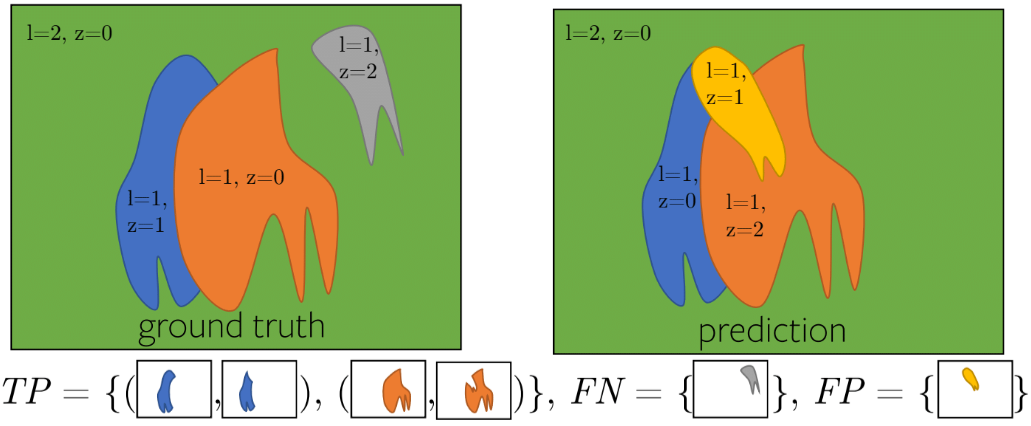
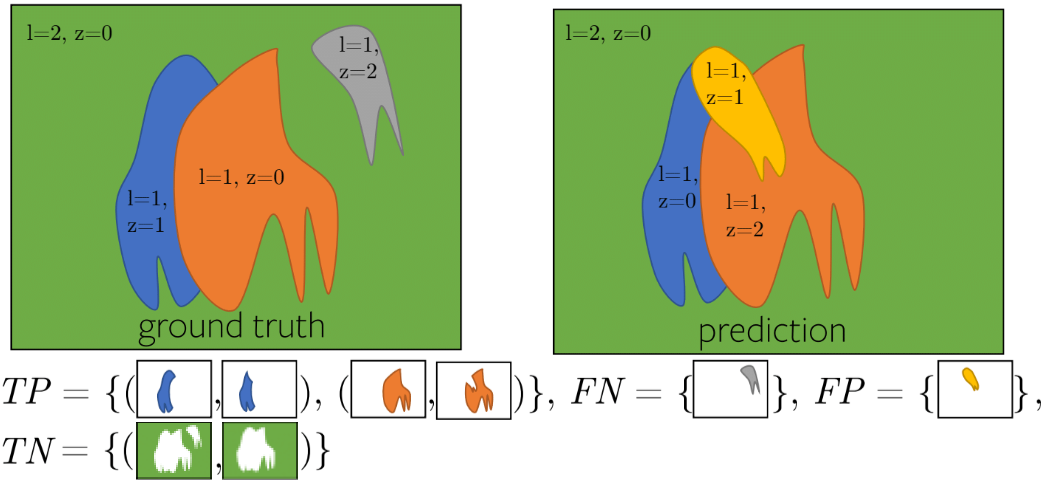
feat: adding more metrics

Changed region(s): [[0.0, 0.0, 1.0, 1.0], [0.1242, 0.4577, 0.1552, 0.4883]]

diff --git a/latex/segmentacao.tex b/latex/segmentacao.tex
@@ -43,28 +43,77 @@ A arquitetura Mask R-CNN é derivado do Fast R-CNN — aprimoramento do R-CNN ap
 Um problema encontrado na segmentação semântica é que objetos de mesma classe não são separados como na segmentação de instância, logo surgiu uma ideia para criar uma solução usando as duas técnicas. Esse conceito surgiu do trabalho \space\citeonline{kirillov2019panoptic} e consiste na definição geral da ideia, uma métrica — que será explicada posteriormente — unificada para classificar os resultados do modelo além de fazer a distinção entre coisas — ou stuff — que não são contáveis, como o céu e os objetos — ou things — que são contáveis como carros, pessoas, etc.
 Os principais conjunto de dados para tarefa panóptica são COCO-Panoptic, Cityscapes, Mapillary Vistas, ADE20K, e Indian Driving Dataset. Cada conjunto de dados possui diversas classes para o modelo aprender \space\cite{v7labs2022panoptic}.
 
-\subsubsection*{Métricas, técnicas e resultados}
+\subsubsubsection*{Métricas e técnicas}
 
 No ramo de segmentação existem diversas métricas que podem ser usadas
 
 \subsubsubsection*{Classificação de conjuntos}
 
-A classificação de conjuntos é uma técnica para criar relações entre a imagem de predição e a imagem do conjunto de dados. Ela se divide em três classificações sendo elas: Positivos Verdadeiros — ou True Positives(TP) — sendo o requisito ter uma intersecção significativa entre classes iguais, \emph{i.e.}, IoU > 0.5, Falso Positivos — ou False Positives(FP) — quando um objeto não é correspondido na imagem de predição e por fim Falso Negativos — False Negatives(FN) — quando um objeto não é correspondido na imagem do conjunto de dados. Pode-se observar esses conceitos de conjuntos na \cref{fig:conjuntos} \space\cite{kirillov2019panoptic}.
+A classificação de conjuntos é uma técnica para criar relações entre a imagem de predição e a imagem do conjunto de dados. Ela se divide em quatro conjuntos sendo eles: Positivo Verdadeiro — ou True Positive(TP) —
+% sendo o requisito ter uma intersecção significativa entre classes iguais, \emph{i.e.}, IoU > 0.5
+, Negativo Verdadeiro — ou True Negative(TN) —, Falso Positivo — ou False Positive(FP) — quando um objeto não é correspondido na imagem de predição e por fim o Falso Negativo — ou False Negatives(FN) — quando um objeto não é correspondido na imagem do conjunto de dados. Essa técnica pode ser usada em modelos de classificação binária usando uma matriz de confusão mas na área de segmentação costuma-se contar os pixeis e sua representação visual pode-se observar na \cref{fig:conjuntos} \space\cite{kirillov2019panoptic, Wang2020}.
 \begin{figure}[ht]
 	\caption{Exemplo da classificação dos conjuntos usados nas métricas de segmentação}
 	\centering % para centralizarmos a figura
 	\includegraphics[width=15cm]{figures/pan_metric.png} % leia abaixo
-	\legend{Fonte: \space\citeonline{slidesKirillov}}
+	\legend{Fonte: \space\citeonline{slidesKirillov} editado}
 	\label{fig:conjuntos}
 \end{figure}
 
+
+\subsubsubsection*{F1 Score}
+
+O F1 Score é uma métrica que pode ser utilizada para calcular a eficiência de modelos de segmentação de instância,  baseando-se em encontrar uma relação entre a área das classes da imagem de saída com as classes na imagem do conjunto de dados porém diminuindo o peso dos erros. Varia de 0 a 1 sendo 1 com maior eficiência. Segue a exemplificação da \cref{eq:f1} \space\cite{Chicco2020}:
+
+\begin{equation}
+	\label{eq:f1}
+	F1\ Score = \frac{\text{TP}}{(TP + \frac{FP}{2} + \frac{FN}{2} )}
+\end{equation}
+
+\subsubsubsection*{Coeficiente de correlação de Matthews}
+
+O coeficiente de correlação de Matthews — ou Matthews Correlation Coefficient (Mcc) —  é uma métrica que pode ser utilizada para mensurar a eficiência de modelos de segmentação,  baseando-se no coeficiente de correlação de Pearson. Varia de -1 a 1 sendo 1 com maior correlação, 0 inconclusivo e -1 sem correlação. Segue a exemplificação da \cref{eq:mcc} \space\cite{Chicco2020, confusion_matrix_calculator}:
+
+\begin{equation}
+	\label{eq:mcc}
+	Mcc = \frac{\text{TP}\cdot\text{TN}-\text{FP}\cdot\text{FN}}{\sqrt{ (\text{TP}+\text{FP})\cdot(\text{TP}+\text{FN})\cdot(\text{TN}+\text{FP})\cdot(\text{TN}+\text{FN}) }}
+\end{equation}
+
+\subsubsubsection*{Taxa de descoberta falsa}
+
+A taxa de descoberta falsa — ou False Discovery Rate (FDR) — é uma métrica utilizada para calcular o erro obtido na imagem de predição,  baseando-se em encontrar uma relação entre ao erro obtido, divido pelo erro mais acerto esperado. Varia de 0 a 1 sendo 1 o pior caso e 0 o melhor. Segue a exemplificação da \cref{eq:fdr} \space\cite{Chicco2020}:
+
+\begin{equation}
+	\label{eq:fdr}
+	Fdr = \frac{FP}{FP + TP}
+\end{equation}
+
+
+\subsubsubsection*{Taxa de Falso Negativo}
+
+A taxa de falso negativo — ou False Negative Rate (FNR) — é uma métrica utilizada para calcular o erro obtido na imagem verdade,  baseando-se em encontrar uma relação entre ao erro obtido, divido pelo erro mais acerto esperado. Varia de 0 a 1 sendo 1 o pior caso e 0 o melhor. Segue a exemplificação da \cref{eq:fnr} \space\cite{Chicco2020}:
+
+\begin{equation}
+	\label{eq:fnr}
+	Fnr = \frac{FN}{FN + TP}
+\end{equation}
+
+\subsubsubsection*{Acurácia}
+
+A acurácia — ou Accuracy (Acc) — é uma métrica utilizada para calcular a eficiência de modelos de segmentação semântica,  baseando-se em encontrar uma relação entre a área das classes da imagem de saída com as classes na imagem do conjunto de dados para todos conjuntos. Varia de 0 a 1 sendo 1 com maior eficiência. Segue a exemplificação da \cref{eq:acc} \space\cite{Chicco2020}:
+
+\begin{equation}
+	\label{eq:acc}
+	Acc = \frac{\text{TP + TN}}{\text{(TP + TN + FP + FN)}}
+\end{equation}
+
 \subsubsubsection*{União sobre intersecção}
 
-A união sobre intersecção — Intersection over Union (IoU) — ou índice de Jaccard é uma métrica muito utilizada para calcular a eficiência de modelos de segmentação, ela se baseia em encontrar uma relação entre a área das classes da imagem de saída com as classes na imagem do conjunto de dados, segue a exemplificação da \cref{eq:iou} \space\cite{dp_semantic_segmantation, lapix, kirillov2019panoptic}:
+A união sobre intersecção — Intersection over Union (IoU) — ou índice de Jaccard é uma métrica muito utilizada para calcular a eficiência de modelos de segmentação, ela se baseia em encontrar uma relação entre a área das classes da imagem de saída com as classes na imagem do conjunto de dados para qualquer valor positivo, isto é, desconsiderando o conjunto positivo falso. Varia de 0 a 1 sendo 1 com maior eficiência. Segue a exemplificação da \cref{eq:iou} \space\cite{ iou_metric_link}:
 
 \begin{equation}
 	\label{eq:iou}
-	IoU = \frac{\text{Área de intersecção}}{\text{Área de união}} \quad IoU(p_i, g) = \frac{p_i \cap g}{ p_i \cup g}
+	IoU = \frac{\text{TP}}{\text{(TP + FP + FN)}}
 \end{equation}
 
 \subsubsubsection*{Qualidade panóptica}
@@ -85,7 +134,7 @@ Multiplicando a \cref{eq:pq_metric} por $\frac{|TP|}{|TP|}$ tem-se:
 	\underbrace{\frac{|TP|}{|TP| + \frac{1}{2}|FP| + \frac{1}{2}|FN|}}_{\text{Recognition Quality (RQ)}}
 \end{equation}
 
-Portanto pode-se concluir que PQ é apenas uma simplificação para uma fórmulaque contém uma relação entre métricas de segmentação semântica e de instância.
+Portanto pode-se concluir que PQ é apenas uma simplificação para uma fórmula que contém uma relação entre métricas de segmentação semântica e de instância.
 
 Com base no subtópico \hyperref[sec:segmentacao]{Segmentação} percebe-se que a segmentação panóptica é a mais completa e por efeito de estudos será utilizado o mesmo para concluir o trabalho. Como nesse nicho existem várias alternativas será utilizado a métrica demonstrada na \cref{eq:pq_metric} para analizar resultados e selecionar o modelo.
 
